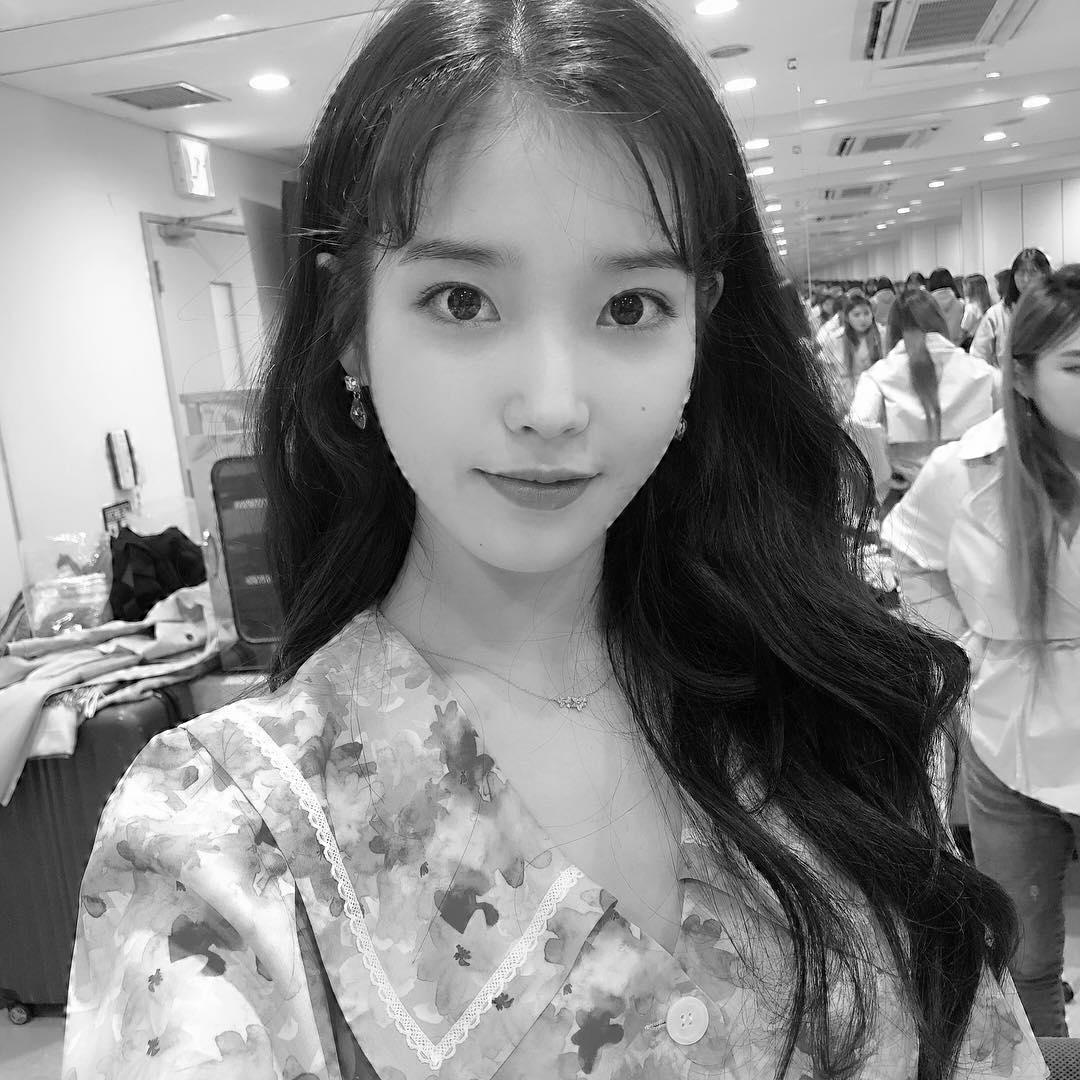
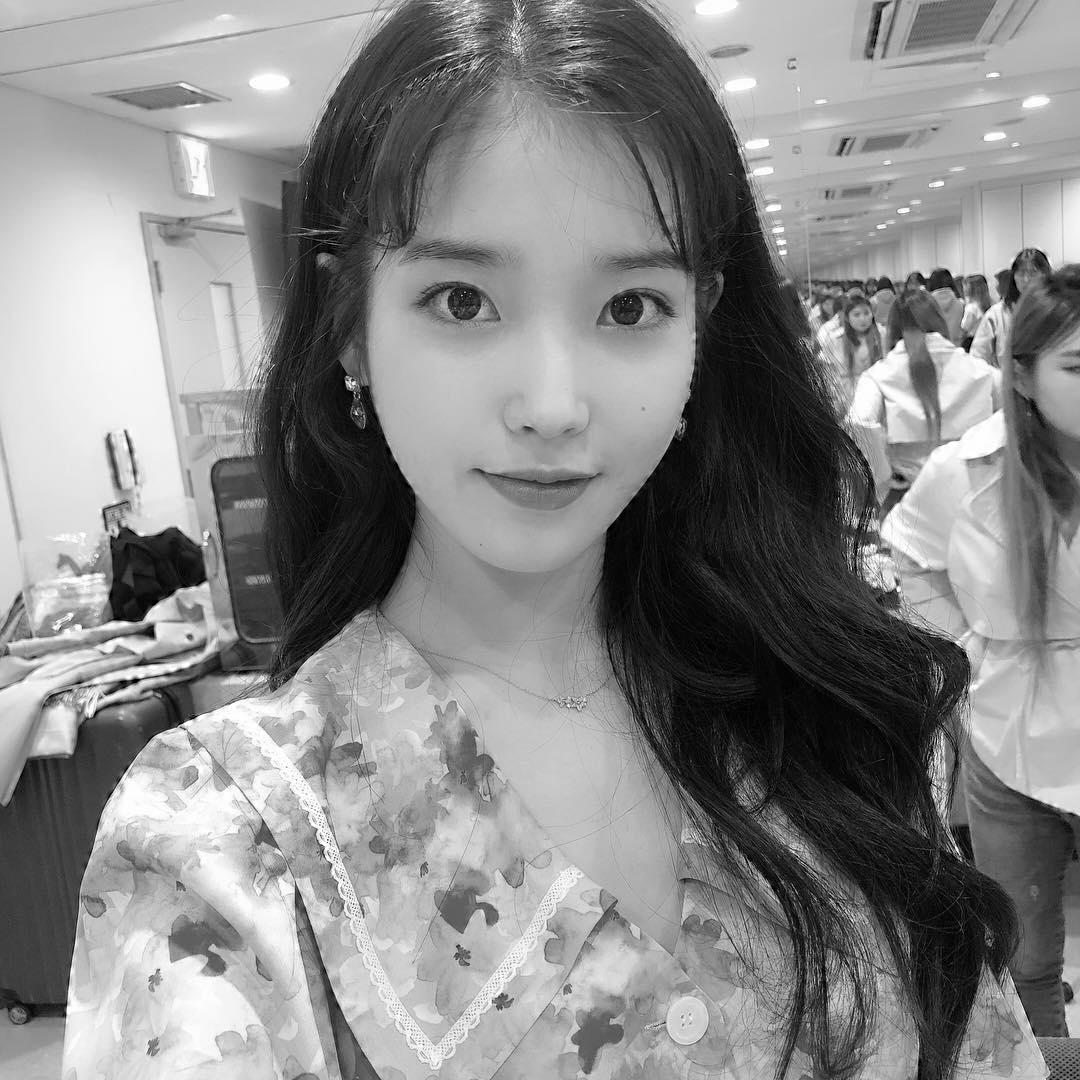
lowPassFilter, medianFilter

diff --git a/main.m b/main.m
@@ -52,3 +52,19 @@ detectWatermark(image1, 'watermarked', 2, numOfX, Xarr, M, L, alpha, alphaBar, i
 image2=jpegCompress(image1, 'jpegCompressed', 3, imageIndex, fileName);
 detectWatermark(image2, 'jpegCompressed', 3, numOfX, Xarr, M, L, alpha, alphaBar, imageIndex, fileName);
 
+%% low pass filter
+image3=lowPassFilter(image1, 'lowPassFiltered', 4, imageIndex, fileName);
+detectWatermark(image3, 'lowPassFiltered', 4, numOfX, Xarr, M, L, alpha, alphaBar, imageIndex, fileName);
+
+%% median filter
+image4=lowPassFilter(image1, 'medianFiltered', 5, imageIndex, fileName);
+detectWatermark(image4, 'medianFiltered', 5, numOfX, Xarr, M, L, alpha, alphaBar, imageIndex, fileName);
+
+%% histogram equalization
+
+
+
+
+
+
+

diff --git a/lowPassFilter.m b/lowPassFilter.m
@@ -1,0 +1,4 @@
+function outputImage = lowPassFilter(image, titleString, plotNumber, imageIndex, fileName)
+h = fspecial('gaussian',5,10); %5x5 sigma=10 gaussian filter(low pass filter)
+outputImage=imfilter(image, h, 'replicate'); %apply filter
+imwrite(outputImage,strcat('output/',string(imageIndex),'_',string(plotNumber),'_',titleString,'_',fileName));

diff --git a/medianFilter.m b/medianFilter.m
@@ -1,0 +1,3 @@
+function outputImage = medianFilter(image, titleString, plotNumber, imageIndex, fileName)
+outputImage=medfilt2(image,[5 5]); %apply 5x5 median filter
+imwrite(outputImage,strcat('output/',string(imageIndex),'_',string(plotNumber),'_',titleString,'_',fileName));
